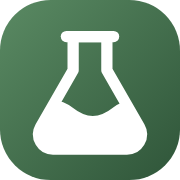
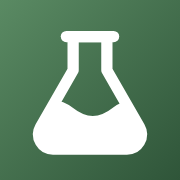
README: логотип без белых углов, свежие скриншоты сайта (компьютер и телефон, опыты, лист урока, результат, Zerde, чат); значки с прозрачными углами, версия v=4

diff --git a/index.html b/index.html
@@ -12,7 +12,7 @@
 <meta property="og:url" content="https://qaltalab.site/">
 <meta name="google-site-verification" content="V6rPHuNwMCEGy08fEgz293VenG9JlS4vZZeFzgBosr8">
 <link rel="canonical" href="https://qaltalab.site/">
-<meta property="og:image" content="https://qaltalab.site/icons/og.png?v=3">
+<meta property="og:image" content="https://qaltalab.site/icons/og.png?v=4">
 <meta property="og:image:width" content="1200">
 <meta property="og:image:height" content="630">
 <meta property="og:site_name" content="QaltaLab">
@@ -21,12 +21,12 @@
 <meta name="twitter:card" content="summary_large_image">
 <meta name="twitter:title" content="QaltaLab — лаборатория в кармане">
 <meta name="twitter:description" content="Настоящие STEM-эксперименты с помощью обычного телефона.">
-<meta name="twitter:image" content="https://qaltalab.site/icons/og.png?v=3">
+<meta name="twitter:image" content="https://qaltalab.site/icons/og.png?v=4">
 <link rel="manifest" href="manifest.webmanifest">
-<link rel="icon" href="favicon.ico?v=3" sizes="48x48">
-<link rel="icon" href="icons/icon.svg?v=3" type="image/svg+xml">
-<link rel="icon" href="icons/icon-192.png?v=3" sizes="192x192" type="image/png">
-<link rel="apple-touch-icon" href="icons/apple-touch-icon.png?v=3">
+<link rel="icon" href="favicon.ico?v=4" sizes="48x48">
+<link rel="icon" href="icons/icon.svg?v=4" type="image/svg+xml">
+<link rel="icon" href="icons/icon-192.png?v=4" sizes="192x192" type="image/png">
+<link rel="apple-touch-icon" href="icons/apple-touch-icon.png?v=4">
 
 <link rel="preconnect" href="https://fonts.googleapis.com">
 <link rel="preconnect" href="https://fonts.gstatic.com" crossorigin>

diff --git a/CLAUDE.md b/CLAUDE.md
@@ -73,7 +73,7 @@ tests/            тесты на Node (в выкладку не идут, см.
 - Смена языка/темы внутри опыта не сбрасывает его (`A.app.refresh` → `A.lab.refreshInPlace`).
 - Вместо стоковых фото на карточках — SVG-рисунок формы закона (фото повторялось, выглядело плохо). В шапке осталось одно фото `assets/hero.jpg` (Unsplash, автор в README).
 - Палитра зелёно-оливковая, заголовки засечным, текст Manrope, числа JetBrains Mono.
-- Знак (27.09, третья версия — лупу и «график с осями» пользователь забраковал): колба с налитой волной на зелёном градиенте #5A8A63→#2F5539. Есть favicon.ico (16/32/48). Значки пересобирает mkicons.js (черновики сессии), адреса значков с ?v=3 — при смене поднять. `icons/icon.svg`, `icon-192/512.png`, `apple-touch-icon.png`, `og.png` (1200×630).
+- Знак (27.09, третья версия — лупу и «график с осями» пользователь забраковал): колба с налитой волной на зелёном градиенте #5A8A63→#2F5539. Есть favicon.ico (16/32/48). Значки пересобирает mkicons.js (черновики сессии), адреса значков с ?v=4 — при смене поднять; PNG-значки с прозрачными углами (Emulation.setDefaultBackgroundColorOverride в mkicons.js), apple-touch — сплошной квадрат. `icons/icon.svg`, `icon-192/512.png`, `apple-touch-icon.png`, `og.png` (1200×630).
 
 ## Главная по брифу жюри (27.09)
 
